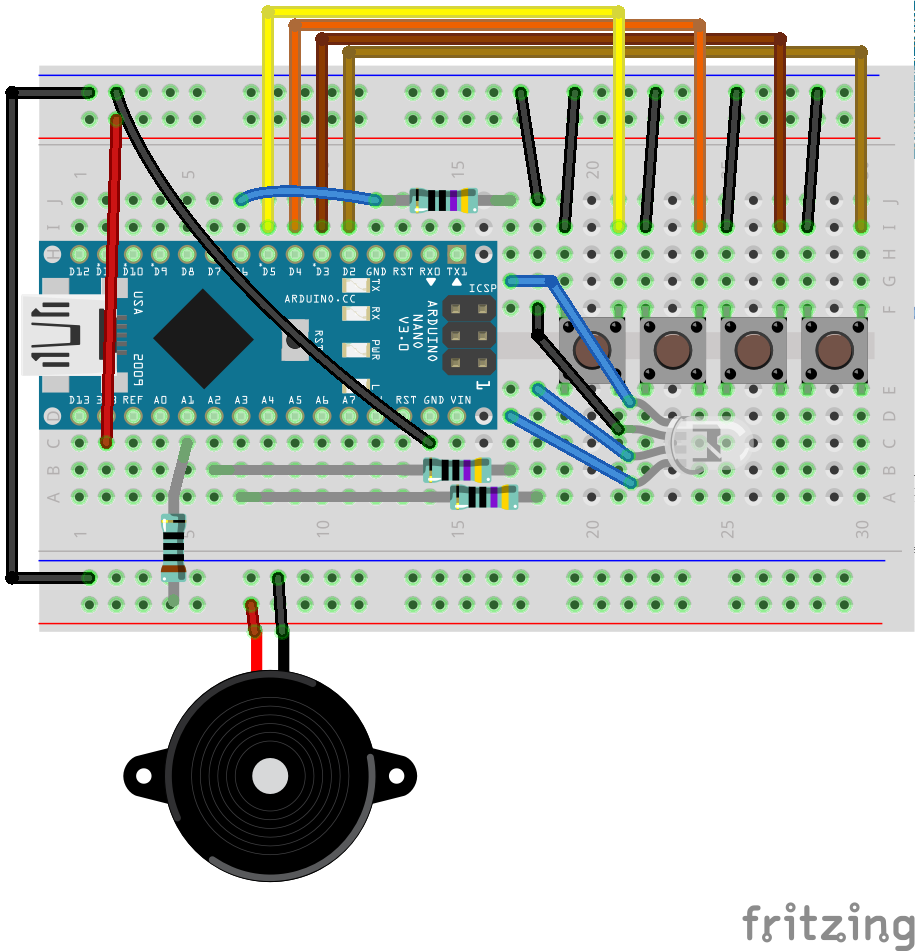
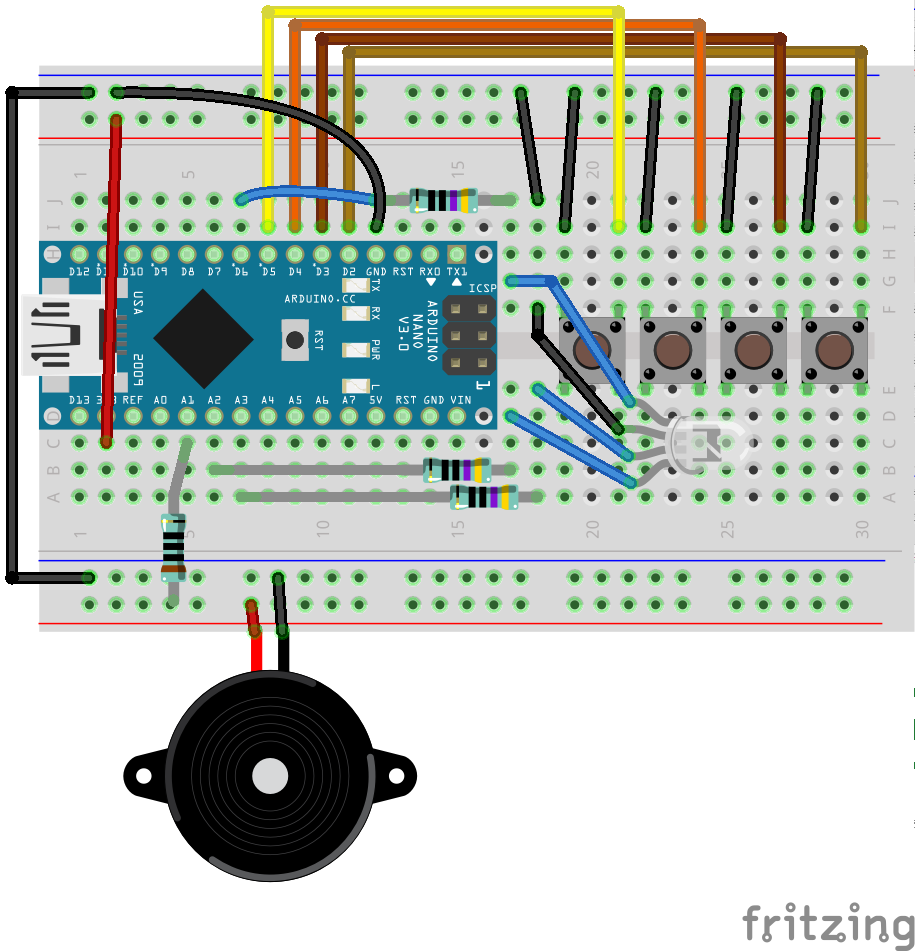
update week4 readme, add easy testing, losing sounds, colorful buttons photo

diff --git a/week4/music_game/config.h b/week4/music_game/config.h
@@ -1,6 +1,6 @@
 // *** Configuration ***
 
-const int BUZZER = 6;
+const int BUZZER = 15;
 const int LED_R = 7;
 const int LED_G = 17;
 const int LED_B = 16;

diff --git a/week4/README.md b/week4/README.md
@@ -19,14 +19,21 @@ To demonstrate how a push button works, we'll build a simple circuit that uses t
 In this circuit, the buzzer is on the "other" side of the switch, so nothing happens when things are just connected. When you push the button, the switch is closed and current reaches the buzzer and it'll make a sound.
 
 
-- [ ] TODO: Add pullup configuration for the push button, use it to turn on the on-board LED
+- [ ] For extra curiculum, we can talk about pull-up mechanism that the Arduino provides (with ~20KΩ depends on the specific board) and how to make the same mechanism ourselves.
+Key principle: current flows in the path of least resistance.
+- [ ] Extra credit assignment: Add external pullup configuration for the push button, use it to turn on the on-board LED
 
 
 Now that we're familiar with all the components, we can proceed to the main project.
 
 
 ## Code
-The full project is available at [music_game/music_game.ino](music_game).
+The full project is available at [music_game](music_game/music_game.ino)
+
+The code is split between 2 files: `music_game.ino` and `config.h`. All pin configuration for the push buttons, LED pins and buzzer is in `config.h`, together with a few game-play related settings.
+
+The code has a `test()` that can help during initial setup, pin assignment and color to button matching. Use it instead of `setup_game()` in the `setup()` function.
+
 
 ## Components
 Generic requirements:
@@ -43,8 +50,11 @@ Project specific needs:
 - 1 x 100Ω resistor
 - 4 x push buttons, preferrably painted in different colors: red, green, blue and yellow
 
-
 There are many components this time, and the board will be full of cables.
+
+To make the game fun to play, it's nicer when the push buttons are painted with the color that's lit on the LED. The buttons can be painted with acrylic paints or oven nail polish. If you do not have suitable paint, a piece of paper with the colors placed in the space in front of the buttons can be used. The example below shows both painted buttons and paper markings.
+
+![Colorful buttons](images/colorful_buttons.jpg)
 
 
 ## Circuit Diagram
@@ -57,7 +67,7 @@ Some unusual placement choices are the 4 pins of the LED span both sides of the 
 
 The other part of the construction, that's not electrical, is painting the buttons in 4 different colors, or preparing a piece of paper with 2 different colors that can be placen in front of the buttons.
 
-Another memasure we take to make cable management nicer is to use the A* (analog) pins as extended digital pins.
+Another measure we take to make cable management nicer is to use the A* (analog) pins as extended digital pins.
 
 
 ## Recap
